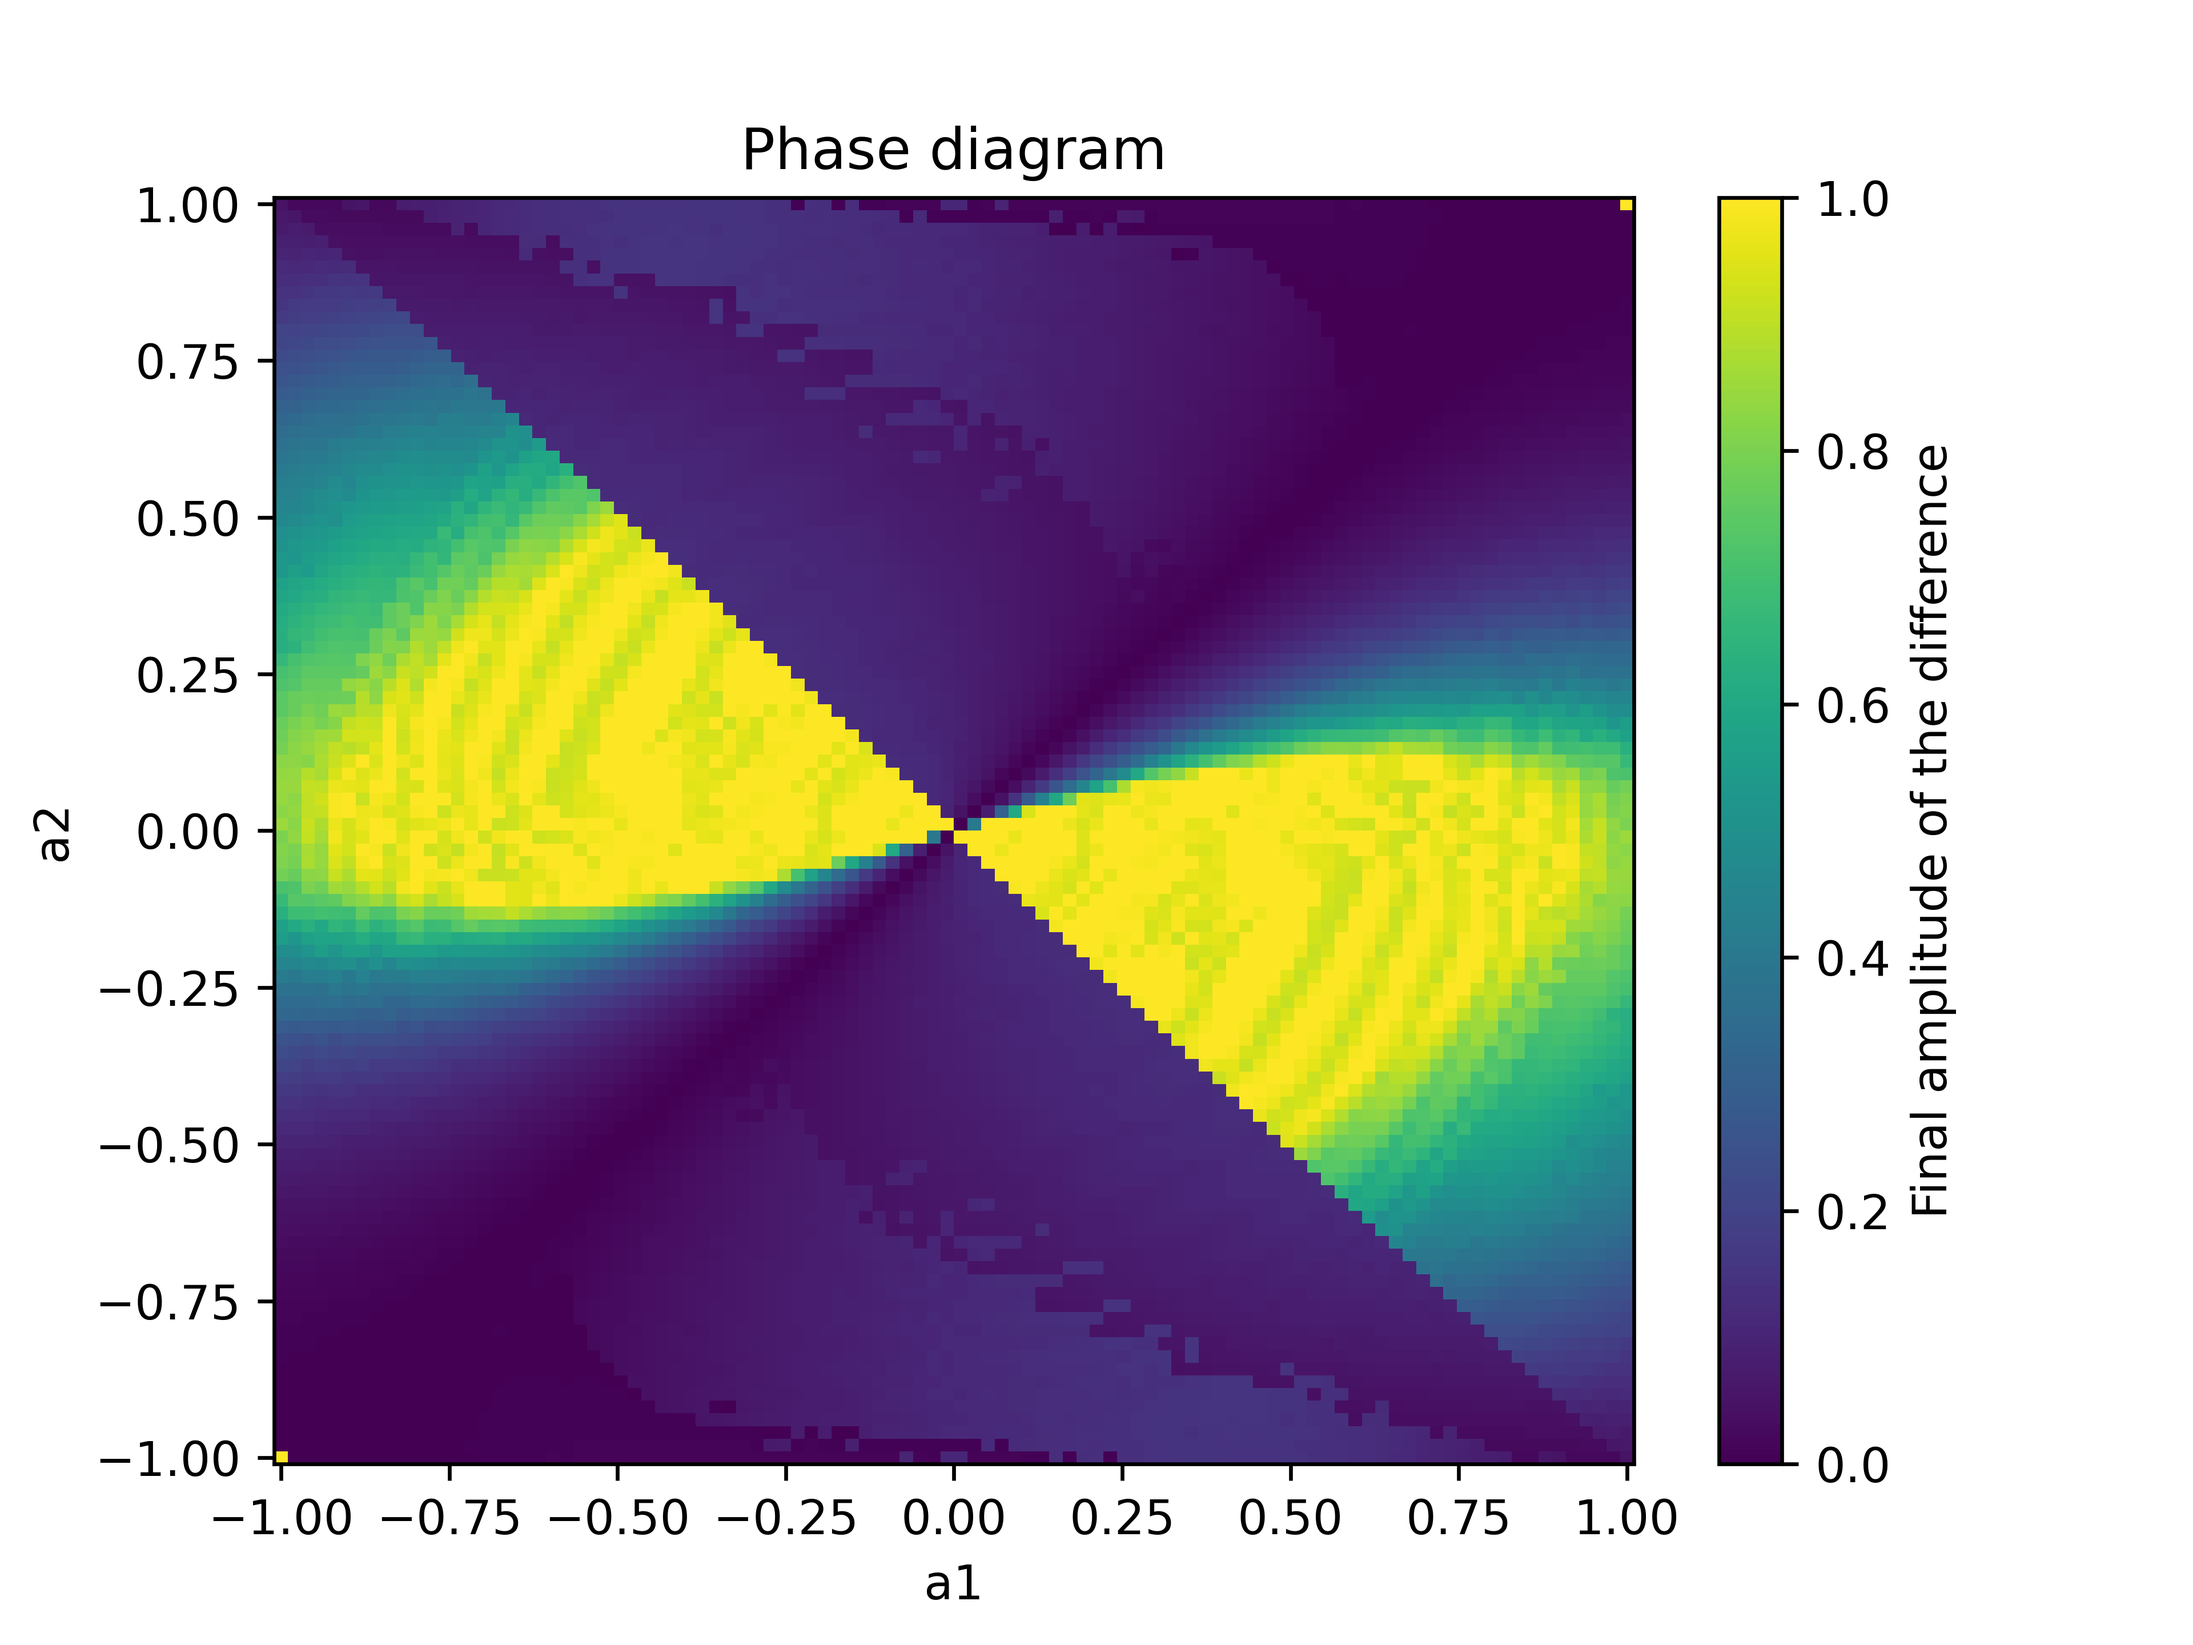
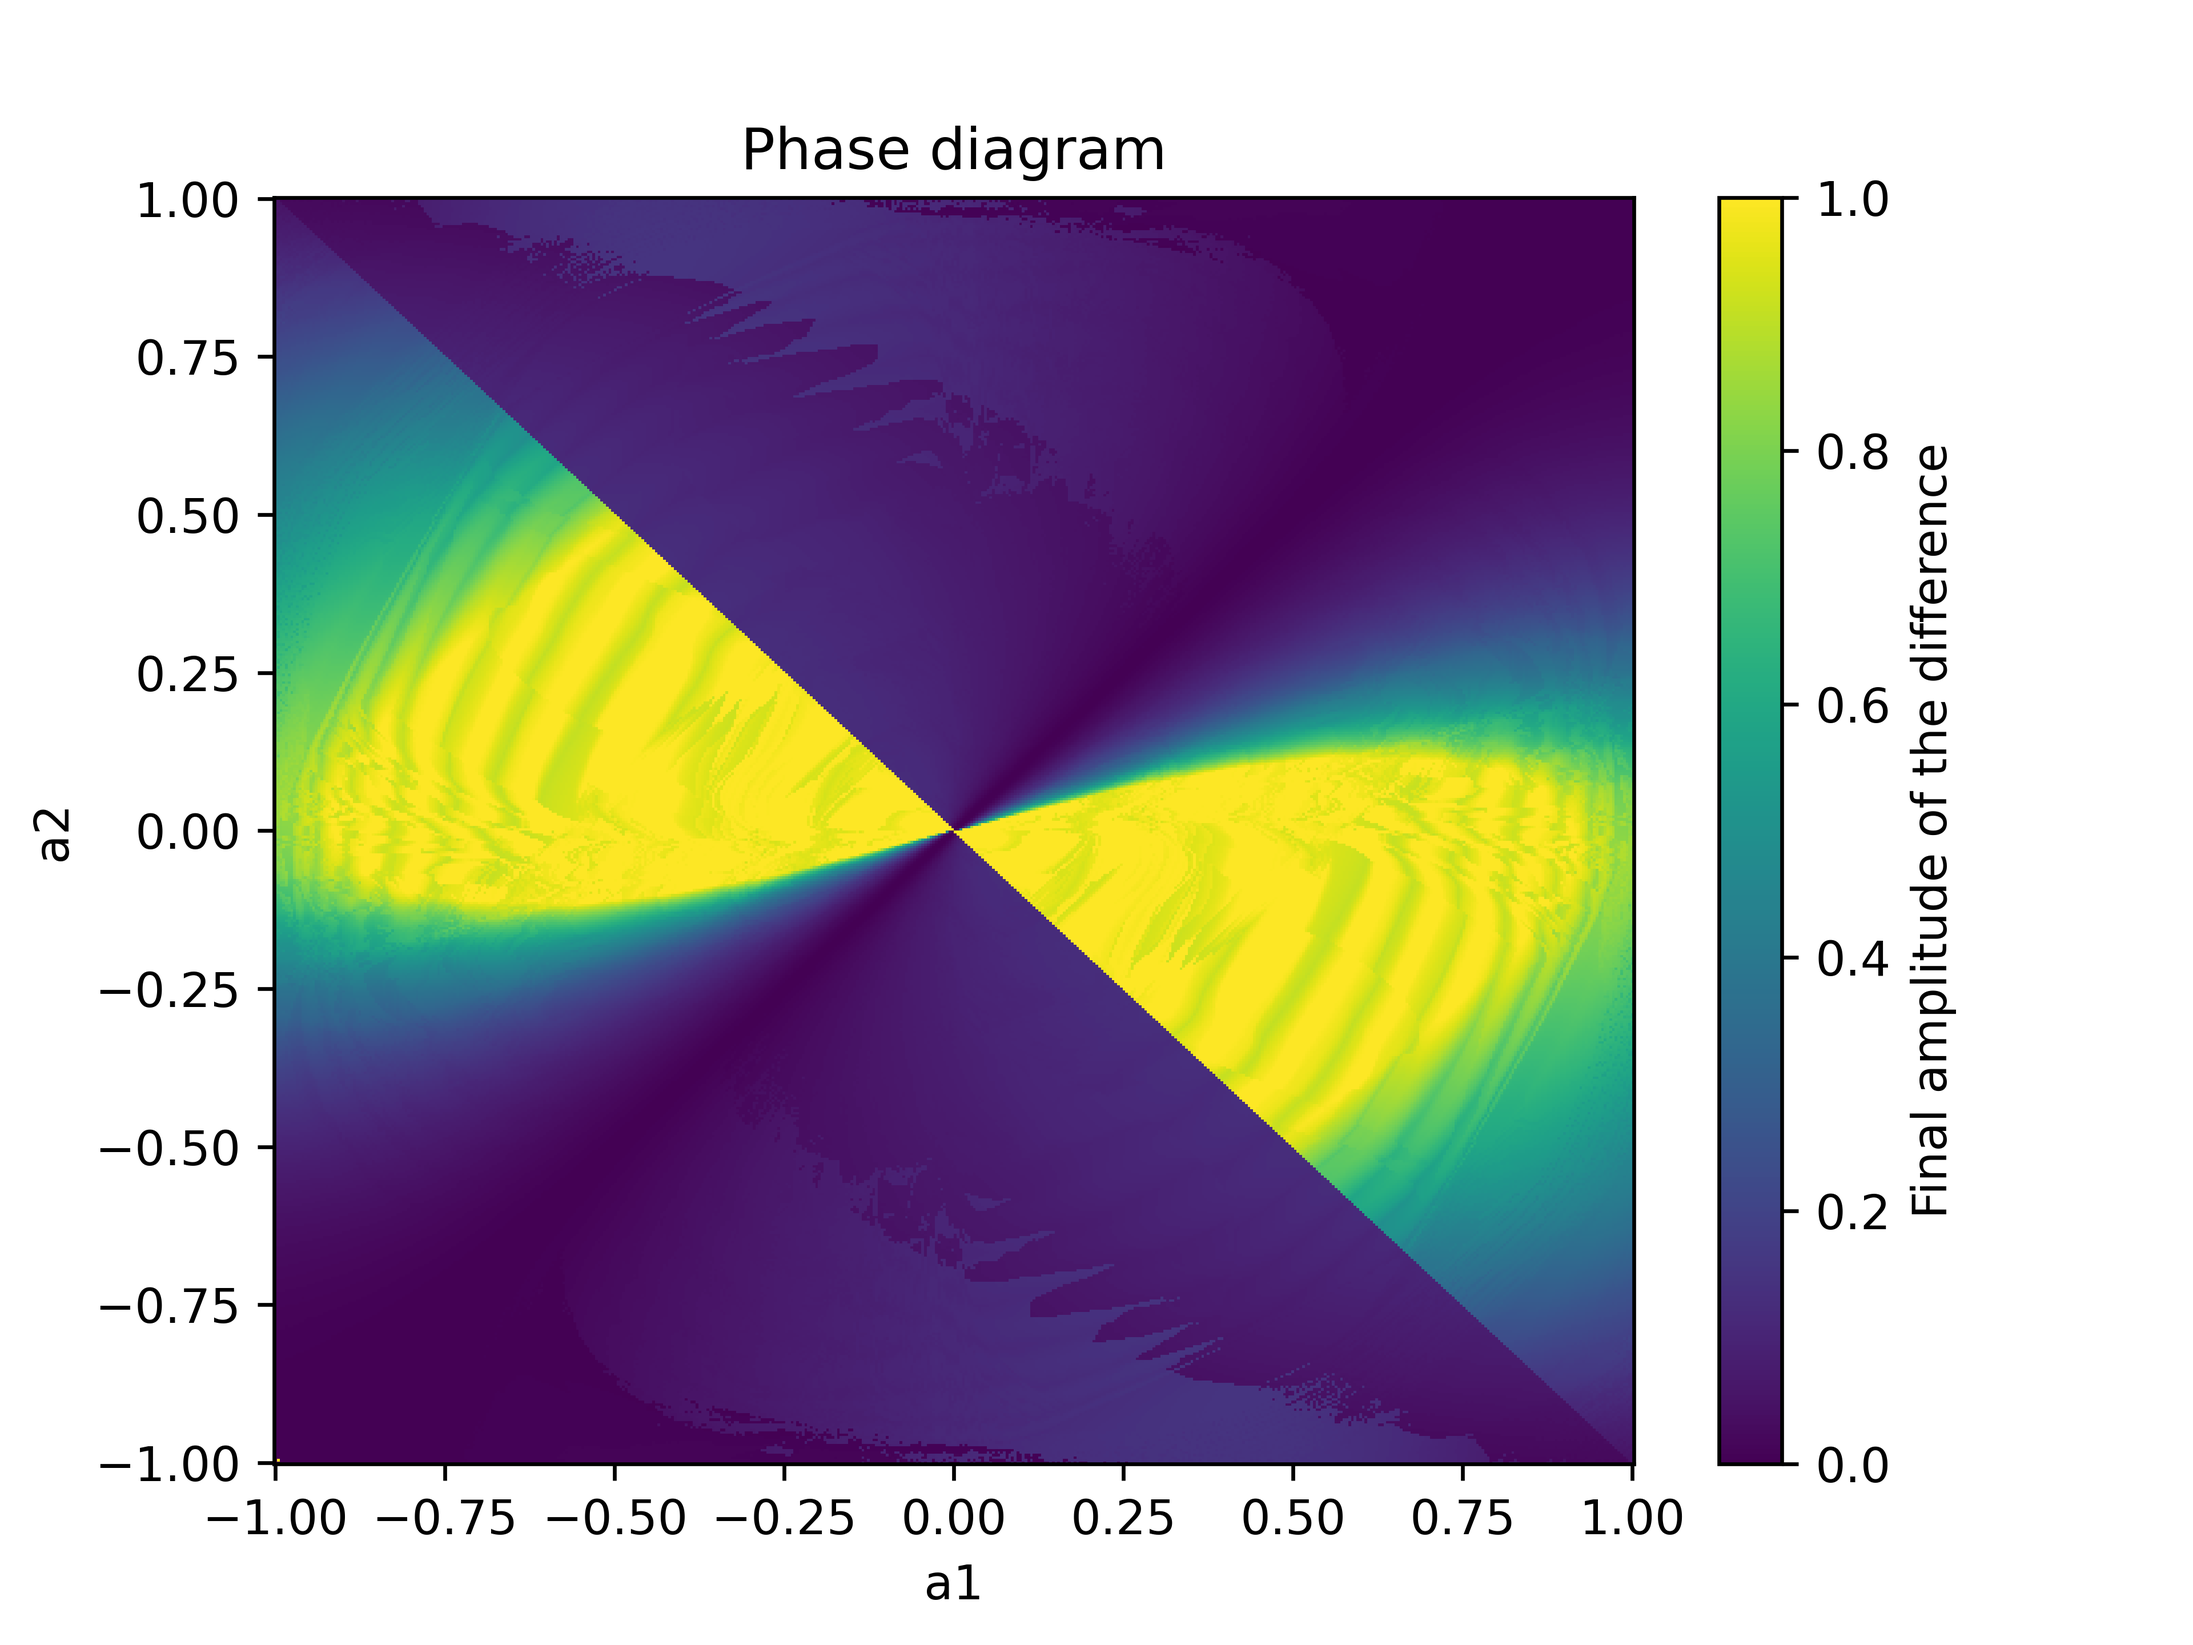
Exploring different synchronization measures and different parameters

diff --git a/instantaneous_neurons.py b/instantaneous_neurons.py
@@ -34,32 +34,32 @@ def system_observables(a1, a2, eps, c, initial_state, t_span, max_step=0.1):
     y1_from_eq = y1_values - x1_eq[1]
     x2_from_eq = x2_values - x2_eq[0]
     y2_from_eq = y2_values - x2_eq[1]
+    kuramoto_values = kuramoto_order_parameter(x1_from_eq, y1_from_eq, x2_from_eq, y2_from_eq)
     x_difference = x1_from_eq - x2_from_eq
     y_difference = y1_from_eq - y2_from_eq
     norm_difference = np.sqrt(x_difference**2 + y_difference**2)
     peak_locations = find_peaks(norm_difference)[0]
     peak_times, peak_values = (t_values[peak_locations], norm_difference[peak_locations])
-    return t_values, x1_values, y1_values, x2_values, y2_values, norm_difference, peak_times, peak_values
-
+    return t_values, x1_values, y1_values, x2_values, y2_values, norm_difference, peak_times, peak_values, kuramoto_values
 
 if __name__ == '__main__':
 
     # Define the parameters:
-    a1 = -0.31
-    a2 = 0.5
-    eps = 0.01
+    a1 = 0.619
+    a2 = -0.209
+    eps = 0.1
     c = 1.0
     animate = False
     # Define the initial condition
-    initial_state = [-a1*3, 0.0, a1*1.0, 0.0]
+    initial_state = [-a1*3, 0.0, a2*1.0, 0.0]
 
     # Define the time span:
-    t_span = (0, 2000)
+    t_span = (0, 1000)
 
     # Solve the system
-    t_values, x1_values, y1_values, x2_values, y2_values, norm_difference, peak_times, peak_values = system_observables(a1, a2, eps, c, initial_state, t_span)
+    t_values, x1_values, y1_values, x2_values, y2_values, norm_difference, peak_times, peak_values, kuramoto = system_observables(a1, a2, eps, c, initial_state, t_span)
 
-    fig, (ax1, ax2, ax3) = plt.subplots(nrows=3, ncols=1, figsize=(12, 8))
+    fig, (ax1, ax2, ax3, ax4) = plt.subplots(nrows=4, ncols=1, figsize=(12, 8))
 
     ax1.plot(t_values, x1_values, label='x1(t)')
     ax1.plot(t_values, y1_values, label='y1(t)')
@@ -77,12 +77,17 @@ if __name__ == '__main__':
     ax2.set_title('Norm of the difference between the two systems')
     ax2.grid(True)
 
-    ax3.plot(peak_times, peak_values, label='Amplitude of the difference')
+    ax3.plot(peak_times, peak_values, "o-", label='Amplitude of the difference')
     ax3.set_xlabel('Time (t)')
     ax3.set_ylabel('Amplitude')
     ax3.set_title('Amplitude of the difference between the two systems')
     ax3.grid(True)
 
+    ax4.plot(t_values, kuramoto, label='Kuramoto order parameter')
+    ax4.set_xlabel('Time (t)')
+    ax4.set_ylabel('Kuramoto order parameter')
+    ax4.set_title('Kuramoto order parameter')
+    ax4.grid(True)
     # x_values = np.array([x1_values, x2_values])
     # y_values = np.array([y1_values, y2_values])
     # ax4.plot(t_values, kuramoto_order_parameter(,))

diff --git a/phase_diagram.py b/phase_diagram.py
@@ -8,11 +8,10 @@ def calculate_phase_diagram_point(params):
     i, j, a1, a2, eps, c = params
     initial_state = [-a1*3, 0.0, a2*1.0, 0.0]
     t_span = (0, 1000)
-    t_values, x1_values, y1_values, x2_values, y2_values, norm_difference, peak_times, peak_values = system_observables(a1, a2, eps, c, initial_state, t_span, max_step=1000)
-    print("working...")
+    t_values, x1_values, y1_values, x2_values, y2_values, norm_difference, peak_times, peak_values, kuramoto = system_observables(a1, a2, eps, c, initial_state, t_span, max_step=1000)
     return i, j, peak_values[-1]/np.max(peak_values)
 
-def main(c=1.0, eps=0.01, a1_range=np.linspace(-1.0, 1.0, 100), a2_range=np.linspace(-1.0, 1.0, 100)):
+def main(c=1.0, eps=0.01, a1_range=np.linspace(-1.0, 1.0, 500), a2_range=np.linspace(-1.0, 1.0, 500)):
 
     # Create a list of parameter values for parallel processing
     params_list = [(i, j, a1, a2, eps, c) for i, a1 in enumerate(a1_range) for j, a2 in enumerate(a2_range)]
@@ -28,8 +27,9 @@ def main(c=1.0, eps=0.01, a1_range=np.linspace(-1.0, 1.0, 100), a2_range=np.lins
     return a1_range, a2_range, phase_diagram
 
 if __name__ == "__main__":
-
-    a1_range, a2_range, phase_diagram = main(c=10.0)
+    c = 1.0
+    eps = 0.1
+    a1_range, a2_range, phase_diagram = main(c=c, eps=eps)
     
     fig, ax = plt.subplots()
     im = ax.pcolormesh(a1_range, a2_range, phase_diagram, shading='auto')
@@ -38,4 +38,5 @@ if __name__ == "__main__":
     ax.set_ylabel('a2')
 
     fig.colorbar(im, ax=ax, label="Final amplitude of the difference")
-    plt.savefig("phase_diagram.png", dpi=600)
+    plt.savefig(f"phase_diagram_c={c}_eps={eps}.png", dpi=600)
+    plt.show()
